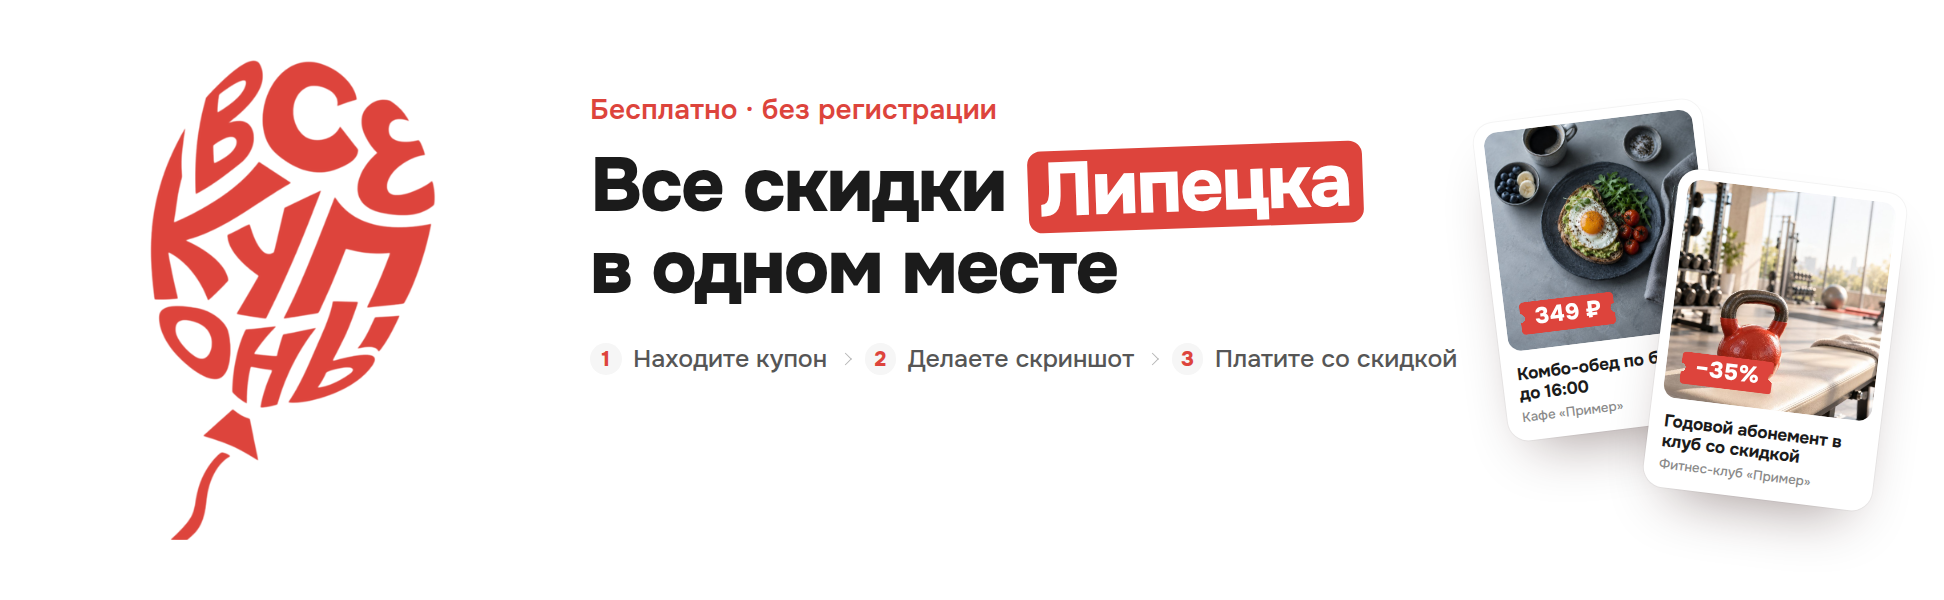
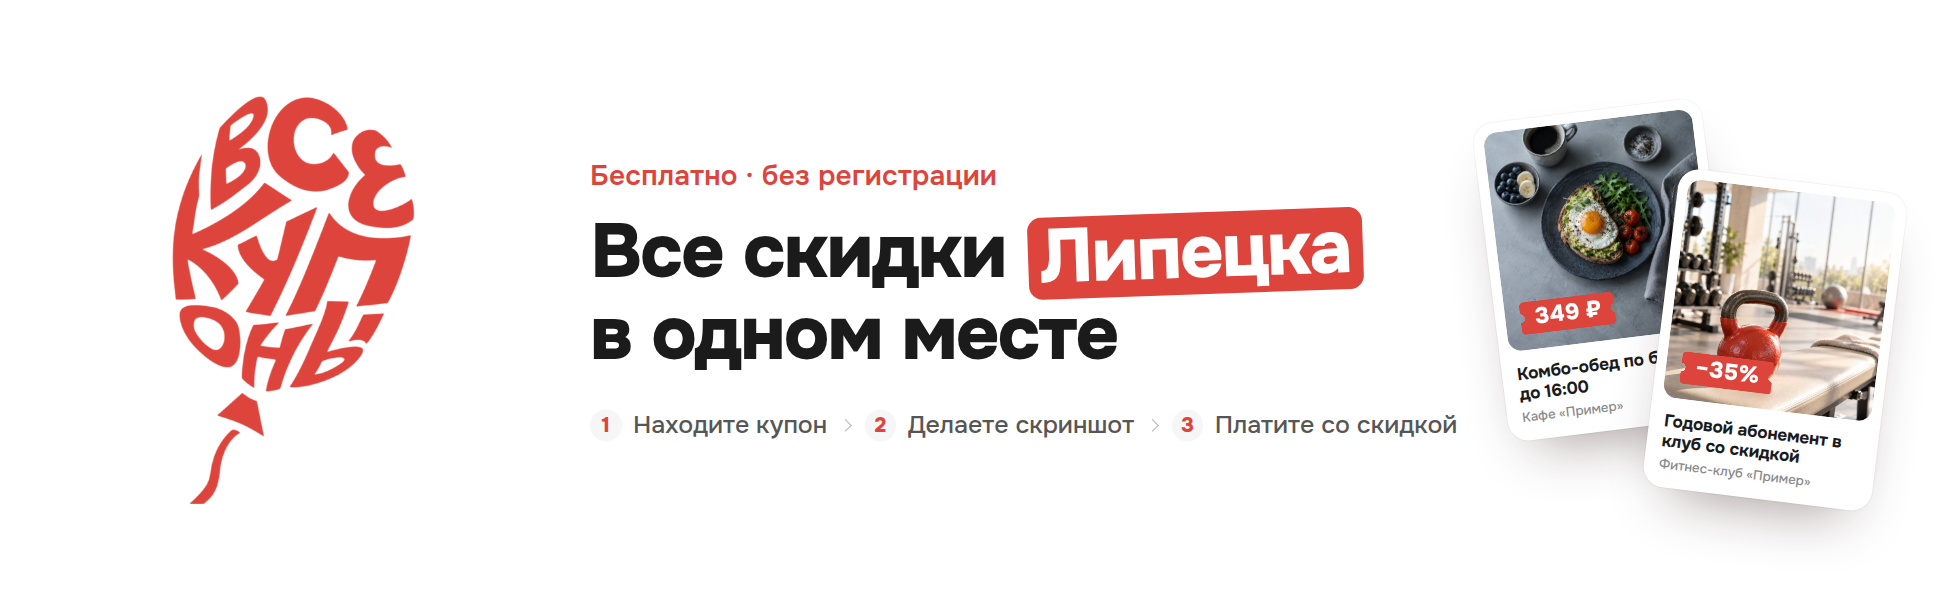
Обложка ОК: текст и логотип по центру высоты, логотип на 15 % меньше
Claude-Session: https://claude.ai/code/session_01WnNNihAkFyEG8CvwvMrpgQ

diff --git a/social-kit/kit.css b/social-kit/kit.css
@@ -186,11 +186,12 @@ body{
 .ok-cover{width:1944px;height:600px}
 /* Текст выровнен по левому краю (правка 03.10) и начинается у левой
    границы мобильной полосы, чтобы на телефоне не срезался */
-.ok-cover .txt{position:absolute;left:590px;top:92px;text-align:left}
+.ok-cover .txt{position:absolute;left:590px;top:50%;transform:translateY(-50%);text-align:left}
 .ok-cover .eyebrow{font-size:28px}
 .ok-cover .h1{margin-top:18px;font-size:76px}
 .ok-cover .steps{margin-top:36px;font-size:25px}
-.ok-cover .logo{position:absolute;left:150px;top:60px;height:480px}
+/* Логотип на 15 % меньше и по центру высоты, как и текст (правка 03.10) */
+.ok-cover .logo{position:absolute;left:172px;top:50%;height:408px;transform:translateY(-50%)}
 .ok-cover .card--1{--w:230px;--r:-7deg;left:1490px;top:110px}
 .ok-cover .card--2{--w:230px;--r:7deg;left:1660px;top:180px}
 
